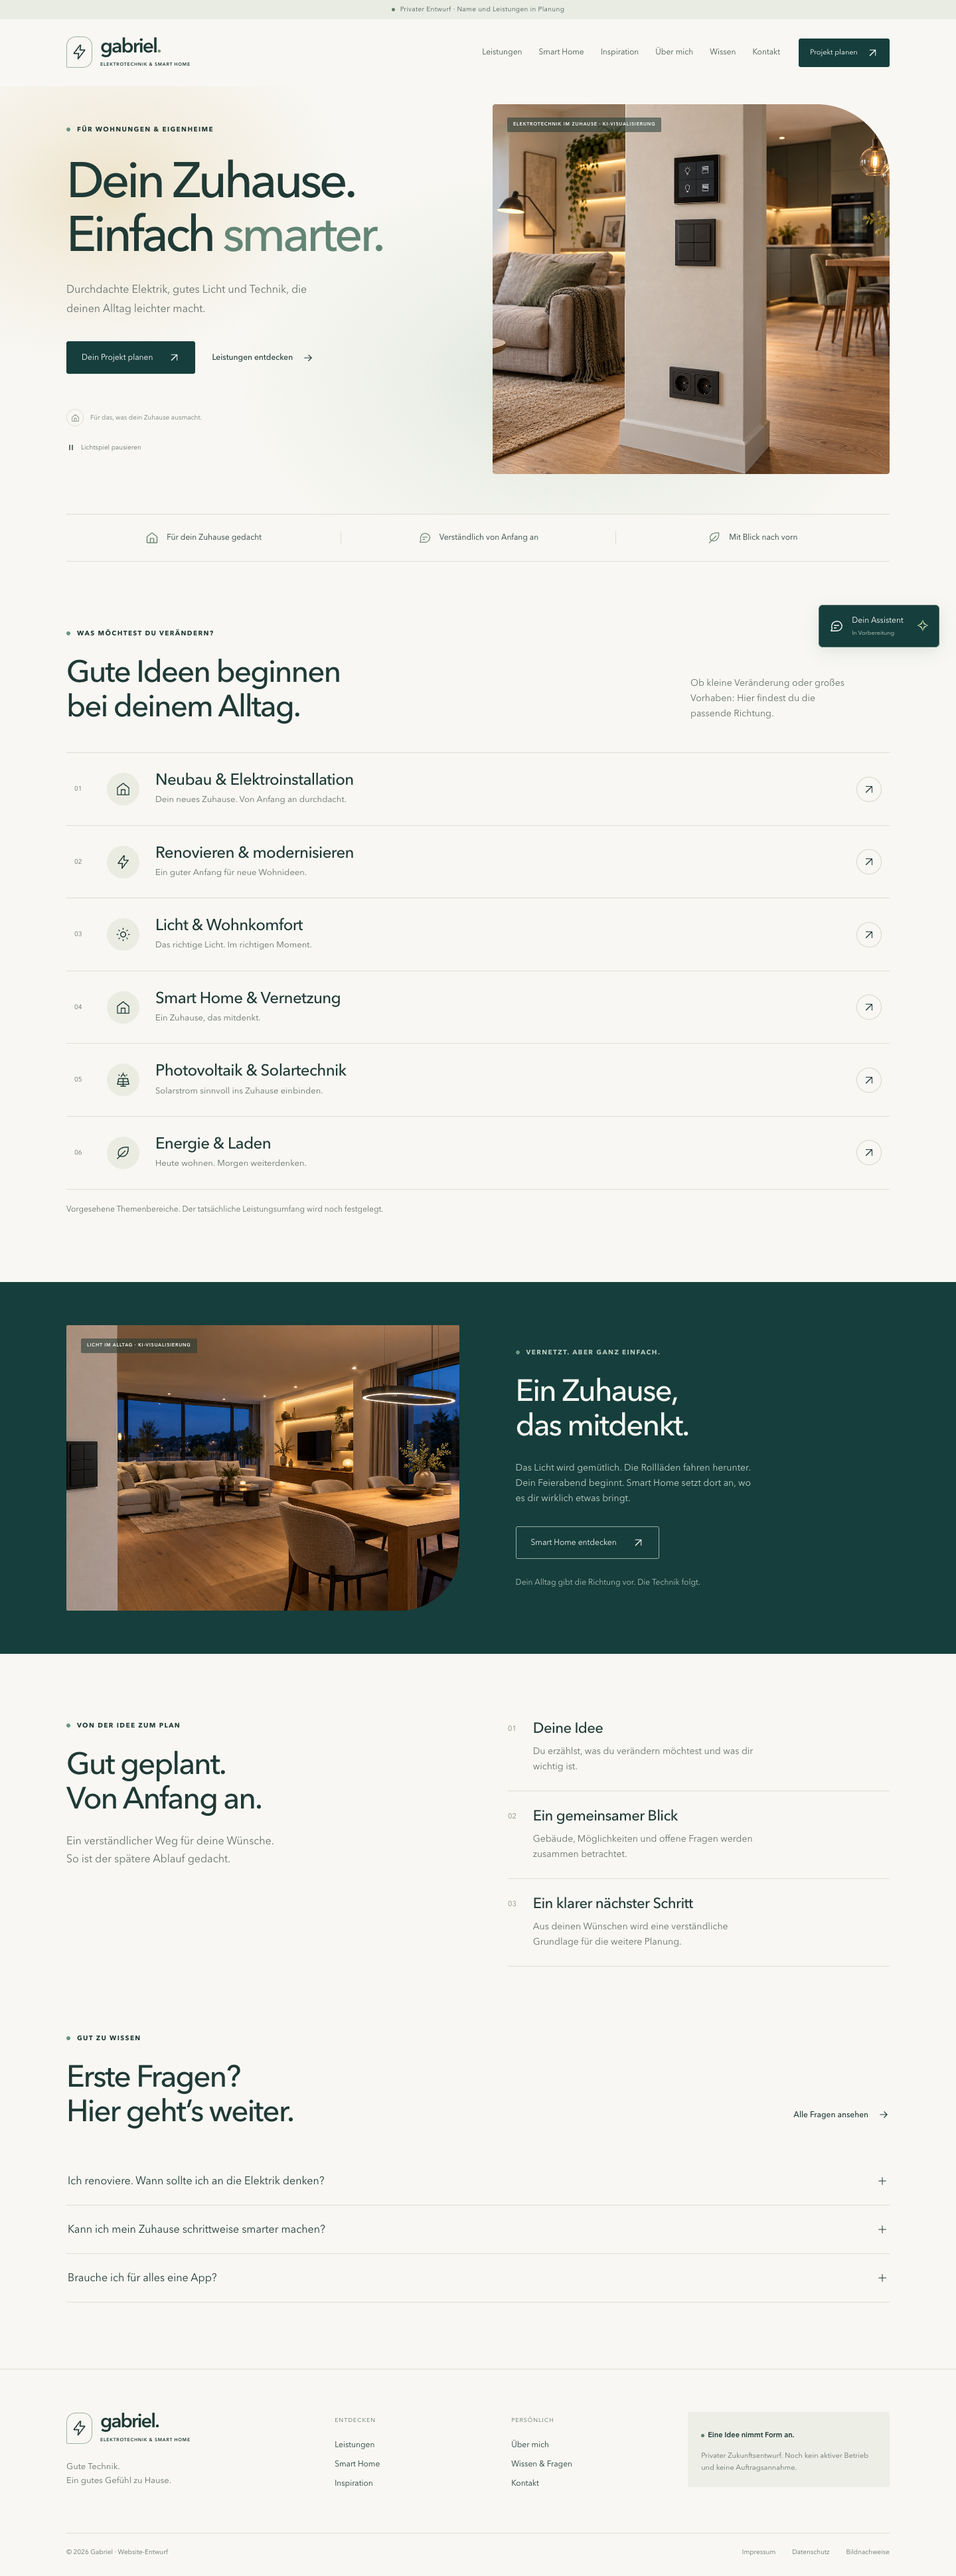
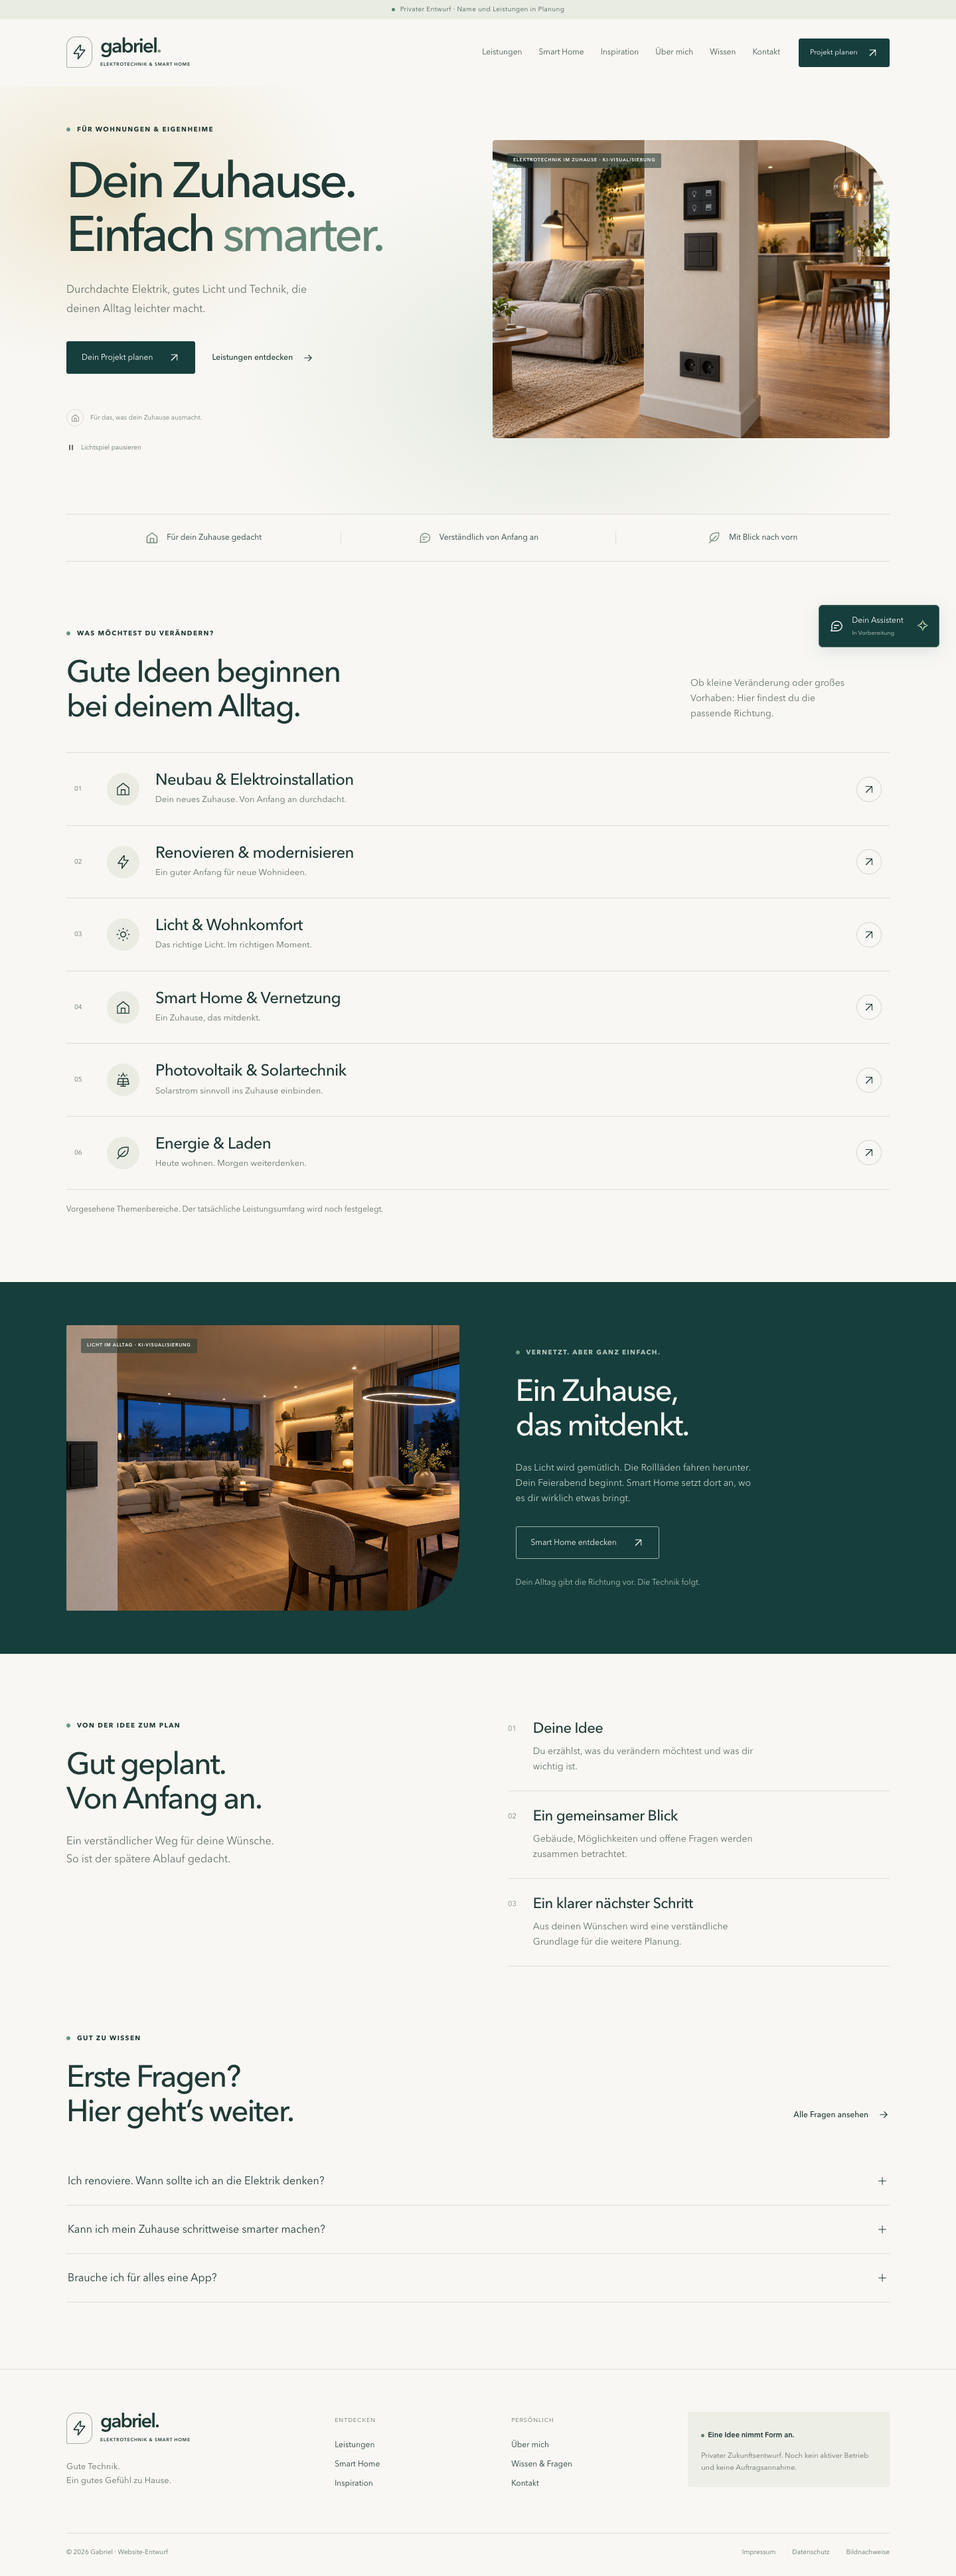
Startbild vollstaendig mit weiterem Ausschnitt anzeigen

Changed region(s): [[0.5, 0.0312, 0.9375, 0.1871]]

diff --git a/public/assets/smart-demos.css b/public/assets/smart-demos.css
@@ -104,6 +104,8 @@
 }
 
 @layer responsive {
+  .home-hero .hero-visual { min-height: 0; aspect-ratio: 4 / 3; align-self: center; }
+  .home-hero .hero-visual > img { object-position: center; }
   @media (max-width: 1100px) {
     .shading-demo-grid { gap: 35px; grid-template-columns: minmax(0, 1fr) 310px; }
     .shading-rooms { gap: 12px; }

diff --git a/docs/PROJEKTSTAND.md b/docs/PROJEKTSTAND.md
@@ -1,6 +1,13 @@
 # Projektstand
 
-Stand: 30.10.2026 · Neues Startbild mit sichtbarer Elektrotechnik
+Stand: 30.10.2026 · Weiterer Ausschnitt für das Startbild
+
+## Aktuelle Bildanpassung
+
+- Gabriel gefiel die nahe Darstellung nicht; sein Wunsch war, etwas herauszuzoomen.
+- Das vorhandene Foto wird jetzt vollständig im Seitenverhältnis 4:3 und mittig angezeigt. Der hohe Bildrahmen mit seitlichem Beschnitt entfällt. Mehr Wohnraum ist sichtbar, die Technik wirkt kleiner. Die Bilddatei wurde nicht verändert und kein neues Motiv generiert.
+- Umsetzung nur in `public/assets/smart-demos.css`, Einzelheiten in [STARTBILD.md](STARTBILD.md). Build und 509 interne Verweise sowie mobile Navigation und Layout erfolgreich geprüft. Vollständiges Bildverhältnis auf Desktop und Mobil kontrolliert; Vorschauansichten aktualisiert.
+- Aktueller Arbeitsbranch: `style/startbild-weiterer-ausschnitt`, aufbauend auf `92cd957`. Nächster Schritt: den weiteren Ausschnitt mit Gabriel ansehen.
 
 ## Aktuelle Überarbeitung
 
@@ -9,7 +16,7 @@ Stand: 30.10.2026 · Neues Startbild mit sichtbarer Elektrotechnik
 - Bild, Alternativtext, Preload und Bildnachweise angepasst; als KI-Visualisierung gekennzeichnet. Der bisherige Textkasten über dem Bild wurde entfernt, damit er keine Steckdosen verdeckt. Das alte Foto bleibt als ungenutzte Datei erhalten.
 - Nur die Intensität der beiden Hintergrund-Lichtflächen noch leicht angehoben. Tempo, Bewegungsweg und Pausenfunktionen bleiben erhalten.
 - Build und 509 interne Verweise erfolgreich. Vier passende Browserprüfungen bestanden: alle Seiten erreichbar, mobiles Layout und Navigation, Lichtspiel/Pause/reduzierte Bewegung sowie Darstellung ohne JavaScript. Desktop und Mobil visuell geprüft; alle drei elektrischen Bedienelemente bleiben im Bildausschnitt sichtbar.
-- Aktueller Arbeitsbranch: `feat/startbild-elektrotechnik`, aufbauend auf `2b06c13`. Nächster Schritt: das neue Bild und die leicht erhöhte Lichtstärke mit Gabriel ansehen.
+- Mit `92cd957` auf `feat/startbild-elektrotechnik` gesichert, aufbauend auf `2b06c13`.
 
 ## Aktuelle Feinabstimmung
 
@@ -115,7 +122,7 @@ Fragen und Verhalten stehen in [INSPIRATIONSBERATER.md](INSPIRATIONSBERATER.md).
 
 ## Nächster gemeinsamer Schritt
 
-Beim Wiedereinstieg das neue Startbild mit sichtbarer Elektrotechnik und die leicht erhöhte Lichtstärke mit Gabriel ansehen und sein Feedback aufnehmen. Auch Jalousien-Demo und die sechs erweiterten Leistungsseiten können weiter verfeinert werden. Die reduzierte Lichtauswahl und die Abenddämmerung sind umgesetzt. Bei weiterer Smart-Home-Arbeit an `src/smart-home.mjs`, `src/room.mjs` und `src/shading.mjs` anknüpfen. Inspiration und Berater können bei Bedarf weiter verfeinert werden.
+Beim Wiedereinstieg den weiteren Ausschnitt des Startbilds mit Gabriel ansehen und sein Feedback aufnehmen. Die Lichtstärke ist bereits leicht erhöht. Auch Jalousien-Demo und die sechs erweiterten Leistungsseiten können weiter verfeinert werden. Die reduzierte Lichtauswahl und die Abenddämmerung sind umgesetzt. Bei weiterer Smart-Home-Arbeit an `src/smart-home.mjs`, `src/room.mjs` und `src/shading.mjs` anknüpfen. Inspiration und Berater können bei Bedarf weiter verfeinert werden.
 
 Gabriels ergänzende Idee ist festgehalten: Wiederkehrende Fragen aus dem späteren echten Chatbot sollen als „Top-Fragen“ mit kurzen Antworten beim Berater ergänzt werden. Fehlt für die Beratung regelmäßig eine Angabe, kann auch der Fragenablauf gezielt erweitert werden. Es werden dafür jetzt keine häufigen Kundenfragen behauptet. Die spätere Auswertung und Übernahme sind noch nicht implementiert.
 
@@ -125,7 +132,7 @@ Danach bleiben Firmenname, Einsatzgebiet, tatsächlicher Leistungsumfang, echte 
 
 Privates Repository: https://github.com/Gabrielysf31/meine-website
 
-Die erste Website-Umsetzung liegt auf `feat/erster-website-entwurf` bis Commit `b73bed2`. Die konkrete Konzeptausarbeitung wurde auf `docs/inspirationsberater-konzept` mit Commit `82b6863` gesichert. Inspiration und Berater wurden mit Commit `a33994a` auf `feat/inspiration-berater` gesichert. Darauf bauen Smart Home (`8ddc091`), Lichtsimulation (`a7aeeec`), Tageslicht (`e6a6a90`), die zwischenzeitliche rote Lichtfarbe (`630896b`) und die endgültige reduzierte Auswahl (`e4ad57b`) auf. Der Abschluss vom 29.10. liegt mit Commit `066b7fb` auf `feat/smart-home-ruhige-lichtstimmungen`. Die Abenddämmerung wurde mit `9108999` auf `fix/smart-home-abenddaemmerung` gesichert. Die ausgearbeiteten Leistungsseiten liegen mit `75dc264` auf `feat/leistungen-ausfuehrlich`. Jalousien-Demo und erstes Lichtspiel sind mit `3cba83c` auf `feat/jalousien-demo-lichtspiel` gesichert. Das verstärkte Lichtspiel ist mit `2b06c13` auf `style/lichtspiel-sichtbarer` gesichert. Der aktuelle, vollständige Arbeitsstand mit neuem Startbild und nochmals leicht angehobener Lichtstärke liegt auf `feat/startbild-elektrotechnik`. `main` enthält weiterhin die ursprüngliche Repository-Initialisierung; es wurde nichts in `main` integriert oder als Website veröffentlicht.
+Die erste Website-Umsetzung liegt auf `feat/erster-website-entwurf` bis Commit `b73bed2`. Die konkrete Konzeptausarbeitung wurde auf `docs/inspirationsberater-konzept` mit Commit `82b6863` gesichert. Inspiration und Berater wurden mit Commit `a33994a` auf `feat/inspiration-berater` gesichert. Darauf bauen Smart Home (`8ddc091`), Lichtsimulation (`a7aeeec`), Tageslicht (`e6a6a90`), die zwischenzeitliche rote Lichtfarbe (`630896b`) und die endgültige reduzierte Auswahl (`e4ad57b`) auf. Der Abschluss vom 29.10. liegt mit Commit `066b7fb` auf `feat/smart-home-ruhige-lichtstimmungen`. Die Abenddämmerung wurde mit `9108999` auf `fix/smart-home-abenddaemmerung` gesichert. Die ausgearbeiteten Leistungsseiten liegen mit `75dc264` auf `feat/leistungen-ausfuehrlich`. Jalousien-Demo und erstes Lichtspiel sind mit `3cba83c` auf `feat/jalousien-demo-lichtspiel` gesichert. Das verstärkte Lichtspiel ist mit `2b06c13` auf `style/lichtspiel-sichtbarer` gesichert. Das neue Startbild und die nochmals leicht angehobene Lichtstärke sind mit `92cd957` auf `feat/startbild-elektrotechnik` gesichert. Der aktuelle, vollständige Arbeitsstand mit weiterem Bildausschnitt liegt auf `style/startbild-weiterer-ausschnitt`. `main` enthält weiterhin die ursprüngliche Repository-Initialisierung; es wurde nichts in `main` integriert oder als Website veröffentlicht.
 
 Die von Gabriel geöffnete lokale Vorschau unter `http://localhost:4173` wurde wiederverwendet und während der Umsetzung aktualisiert. Falls sie nicht läuft: `npm run dev`. Nach weiteren Änderungen `npm run build` ausführen und den Browser neu laden.
 

diff --git a/docs/STARTBILD.md b/docs/STARTBILD.md
@@ -14,6 +14,10 @@ Gabriels Wunsch: Die moderne Wohnatmosphäre beibehalten und im Startbild klar s
 - Das frühere Startbild `public/assets/wohnraum.jpg` bleibt als ungenutzte Datei erhalten.
 - Illustratives Motiv, kein Kundenprojekt oder Nachweis einer konkreten Produktkompatibilität.
 
+## Weiterer Ausschnitt nach Gabriels Feedback
+
+Der erste Einbau wirkte Gabriel zu nah. Das vorhandene Foto wird jetzt vollständig im ursprünglichen Seitenverhältnis 4:3 angezeigt und mittig ausgerichtet. Der frühere hohe Bildrahmen schnitt links und rechts Bildinhalt ab und vergrößerte dadurch die Wand mit der Technik. Der weitere Ausschnitt zeigt mehr Wohnraum; die Bedienelemente wirken kleiner. Die Anpassung erfolgt ausschließlich über die Darstellung in `public/assets/smart-demos.css`; Bilddatei und ursprünglicher Prompt bleiben erhalten.
+
 ## Vollständiger Prompt
 
 ```text
